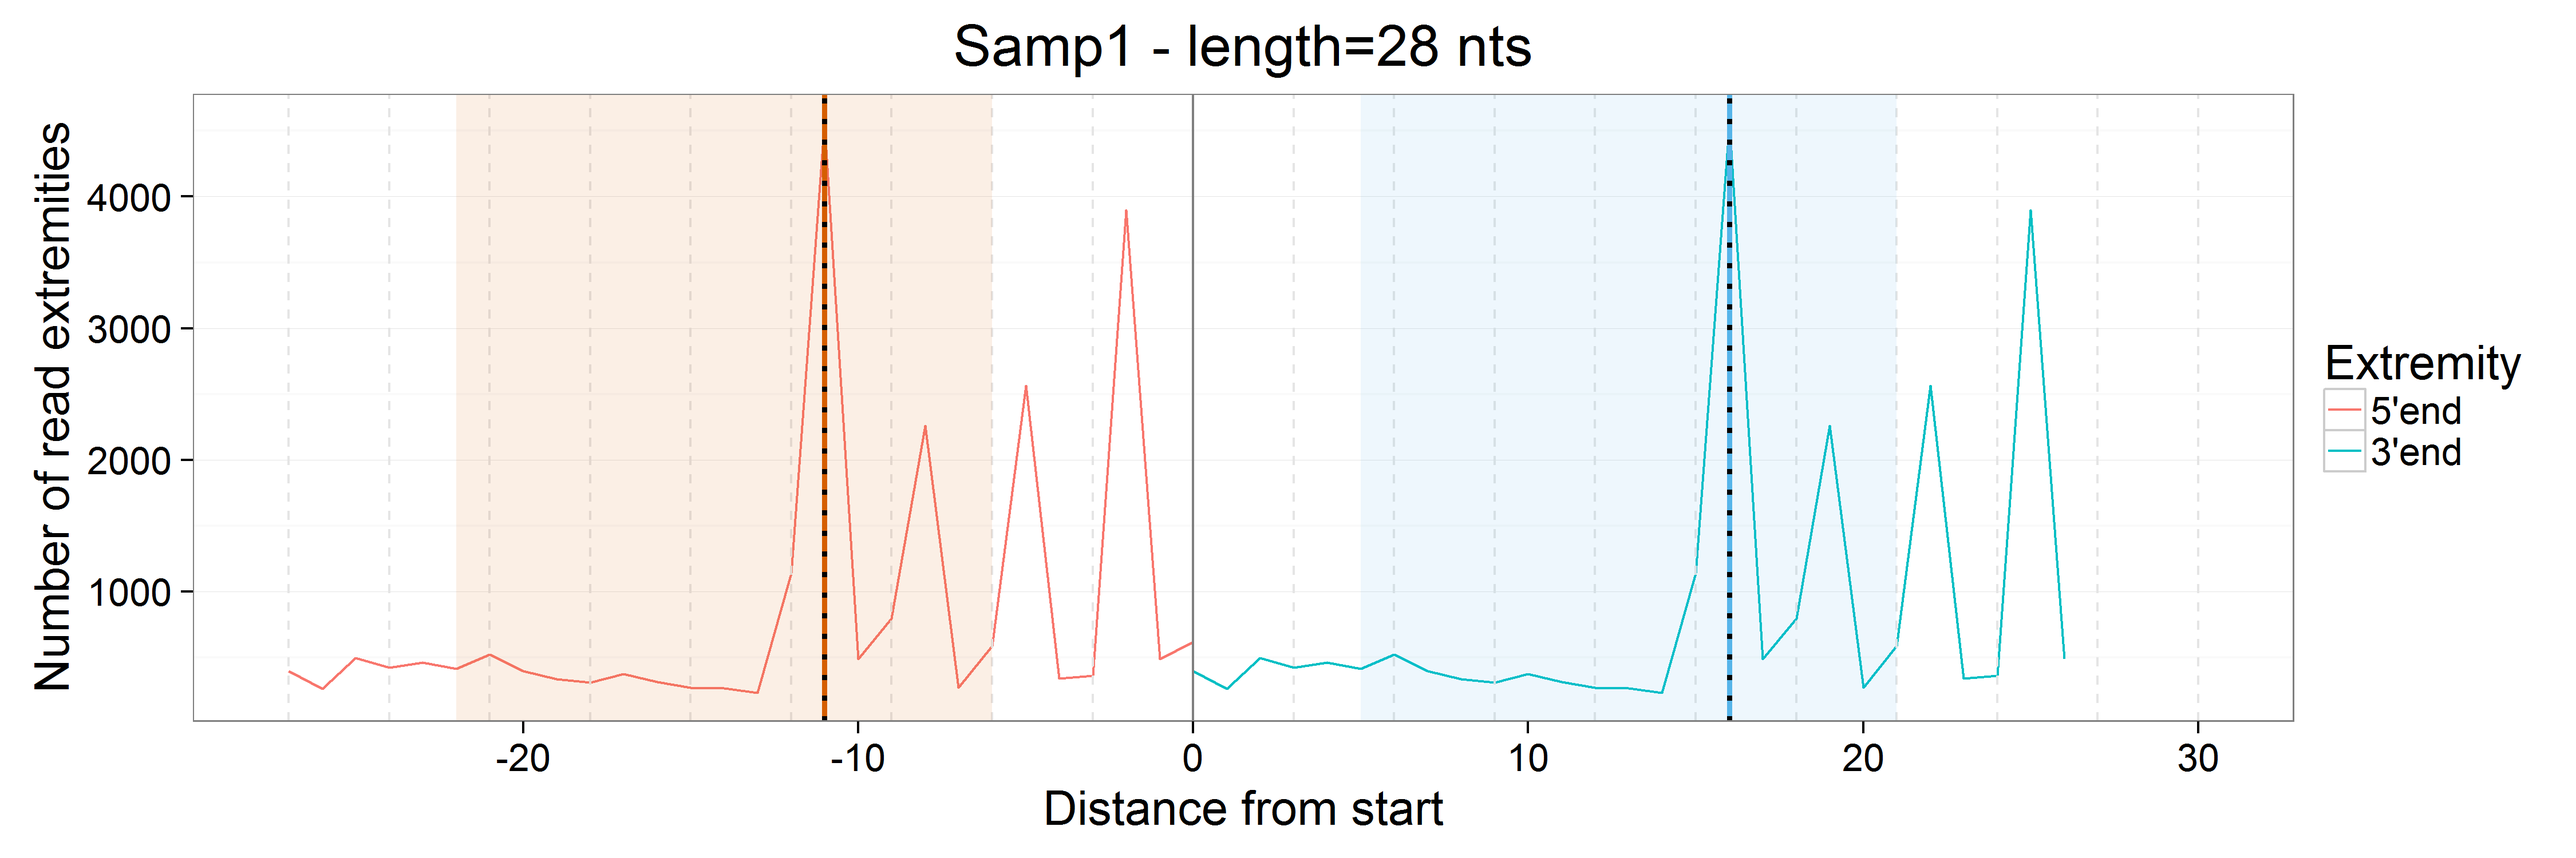
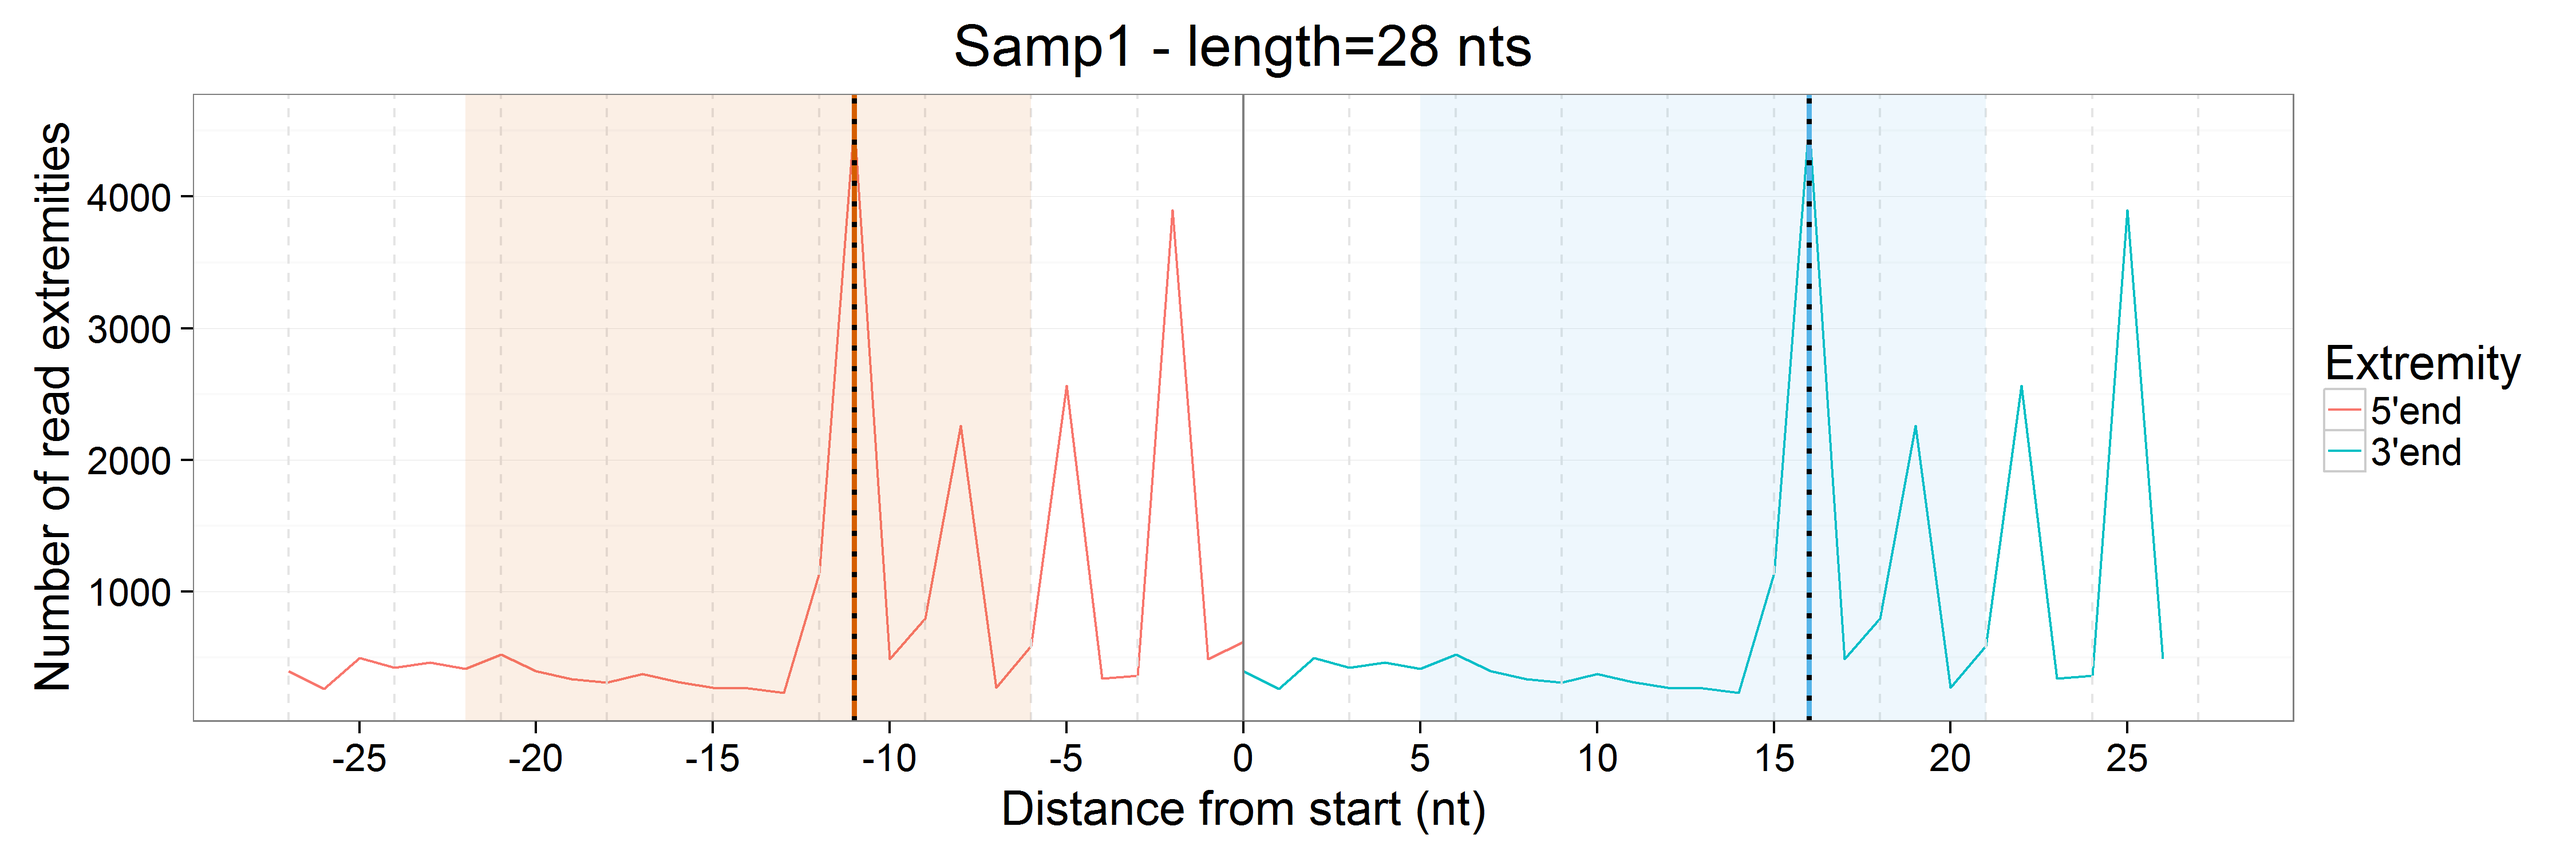
update vignette images and psite function

diff --git a/README.md b/README.md
@@ -44,7 +44,7 @@ To run `bamtobed`, only the path to the BAM file(s) is required, possibly couple
 
     bamtobed(bamfolder=path_to_bam, bedfolder=path_to_bed)
 
-  The resulting files will contain, for each read, the name of the transcript on which it alignes, the position of its first and last nucleotide, its length and the associated strand. The BED files will appear like the following (the header is here added for clarity):
+  The resulting files will contain, for each read, the name of the transcript on which it alignes, the position of its first and last nucleotide, its length and the associated strand. The BED files will appear like the following (the header of the columns are here added for clarity):
 
   |  transcript  |  start  |  end  |  length  |  strand  |
   |:------|:-----:|---------:|:------:|:------:|
